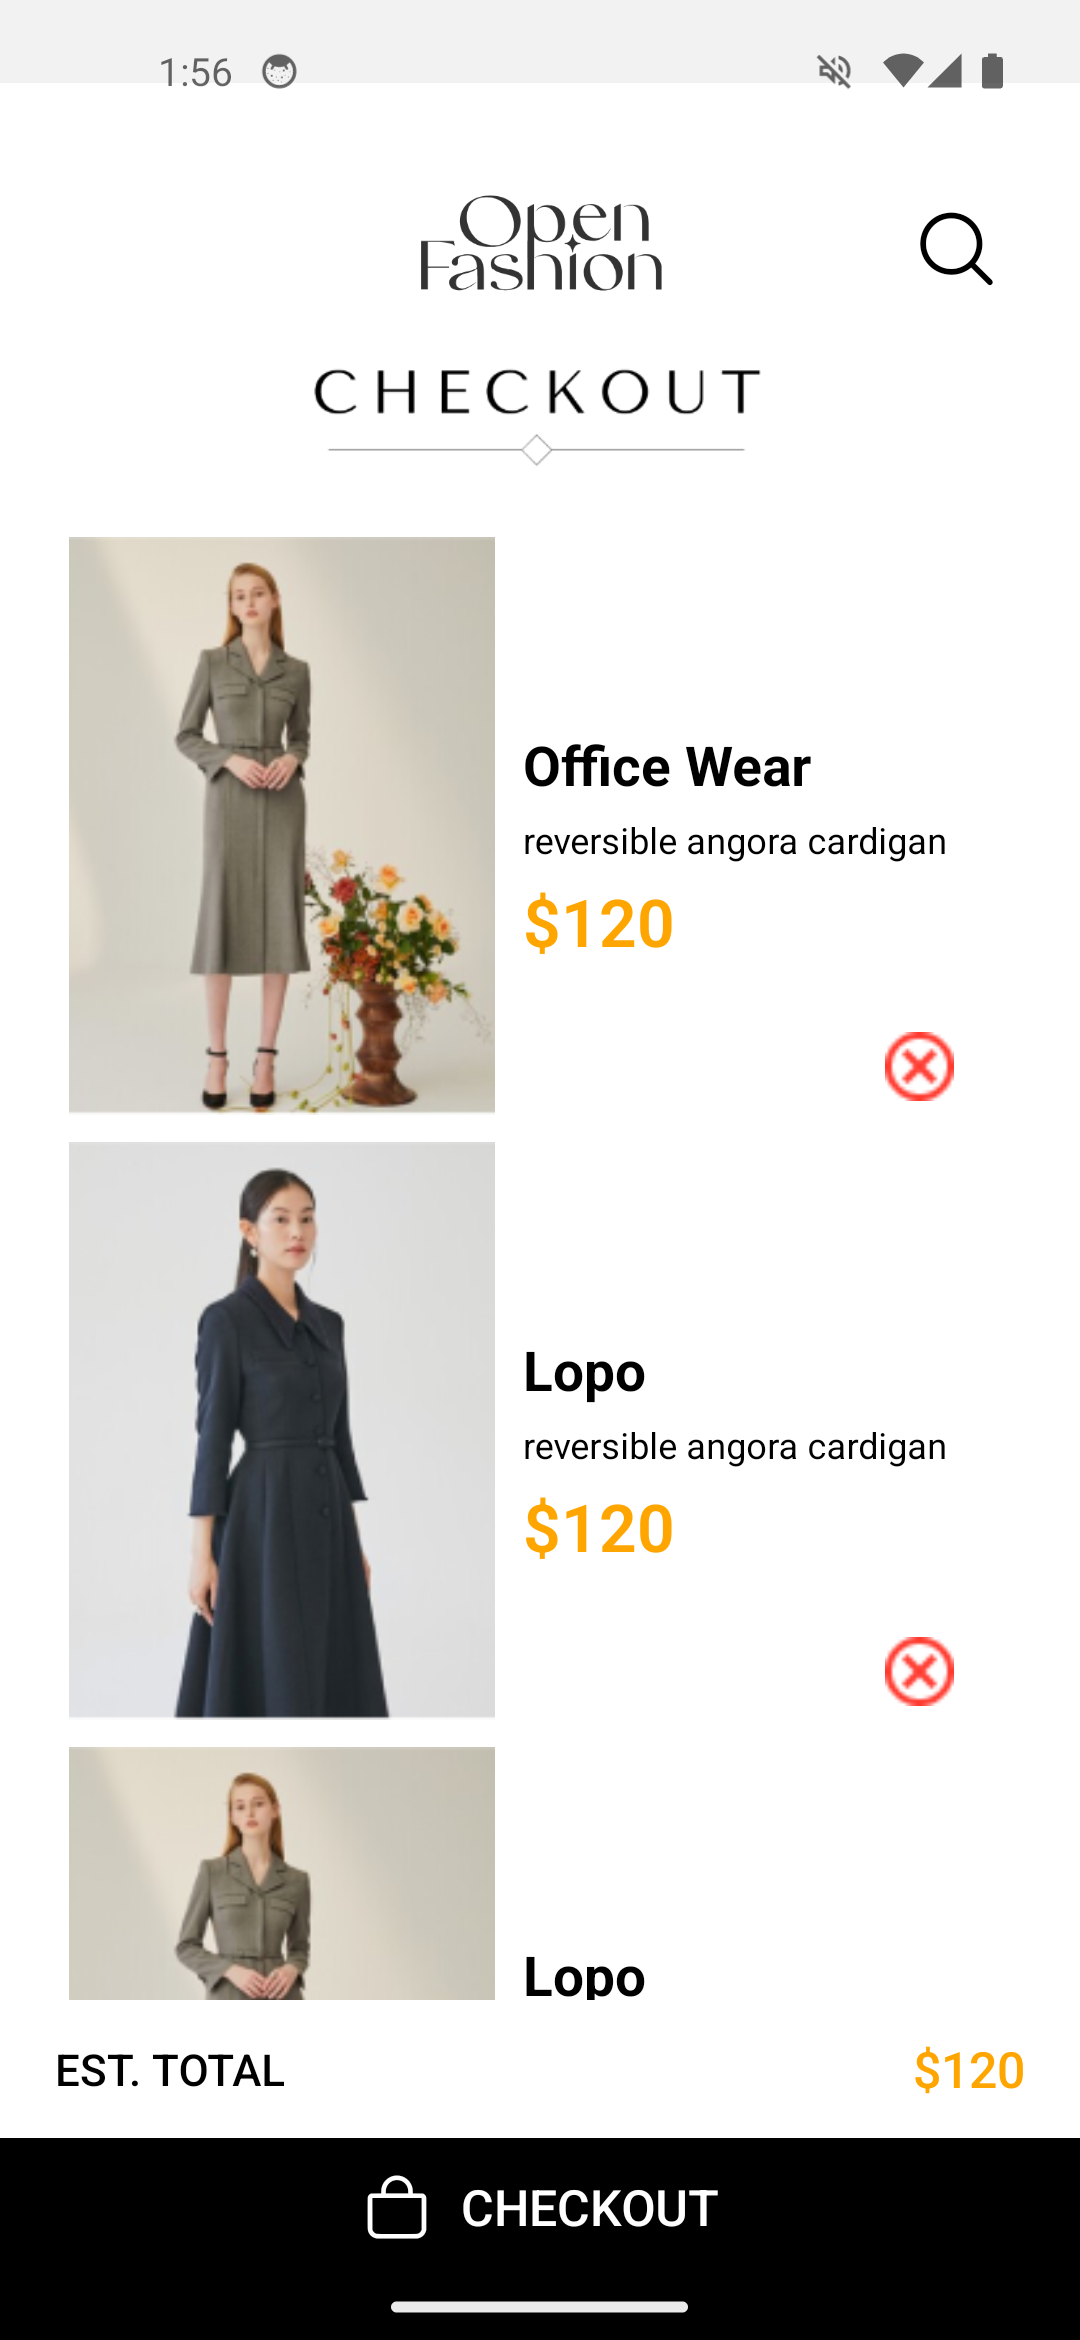
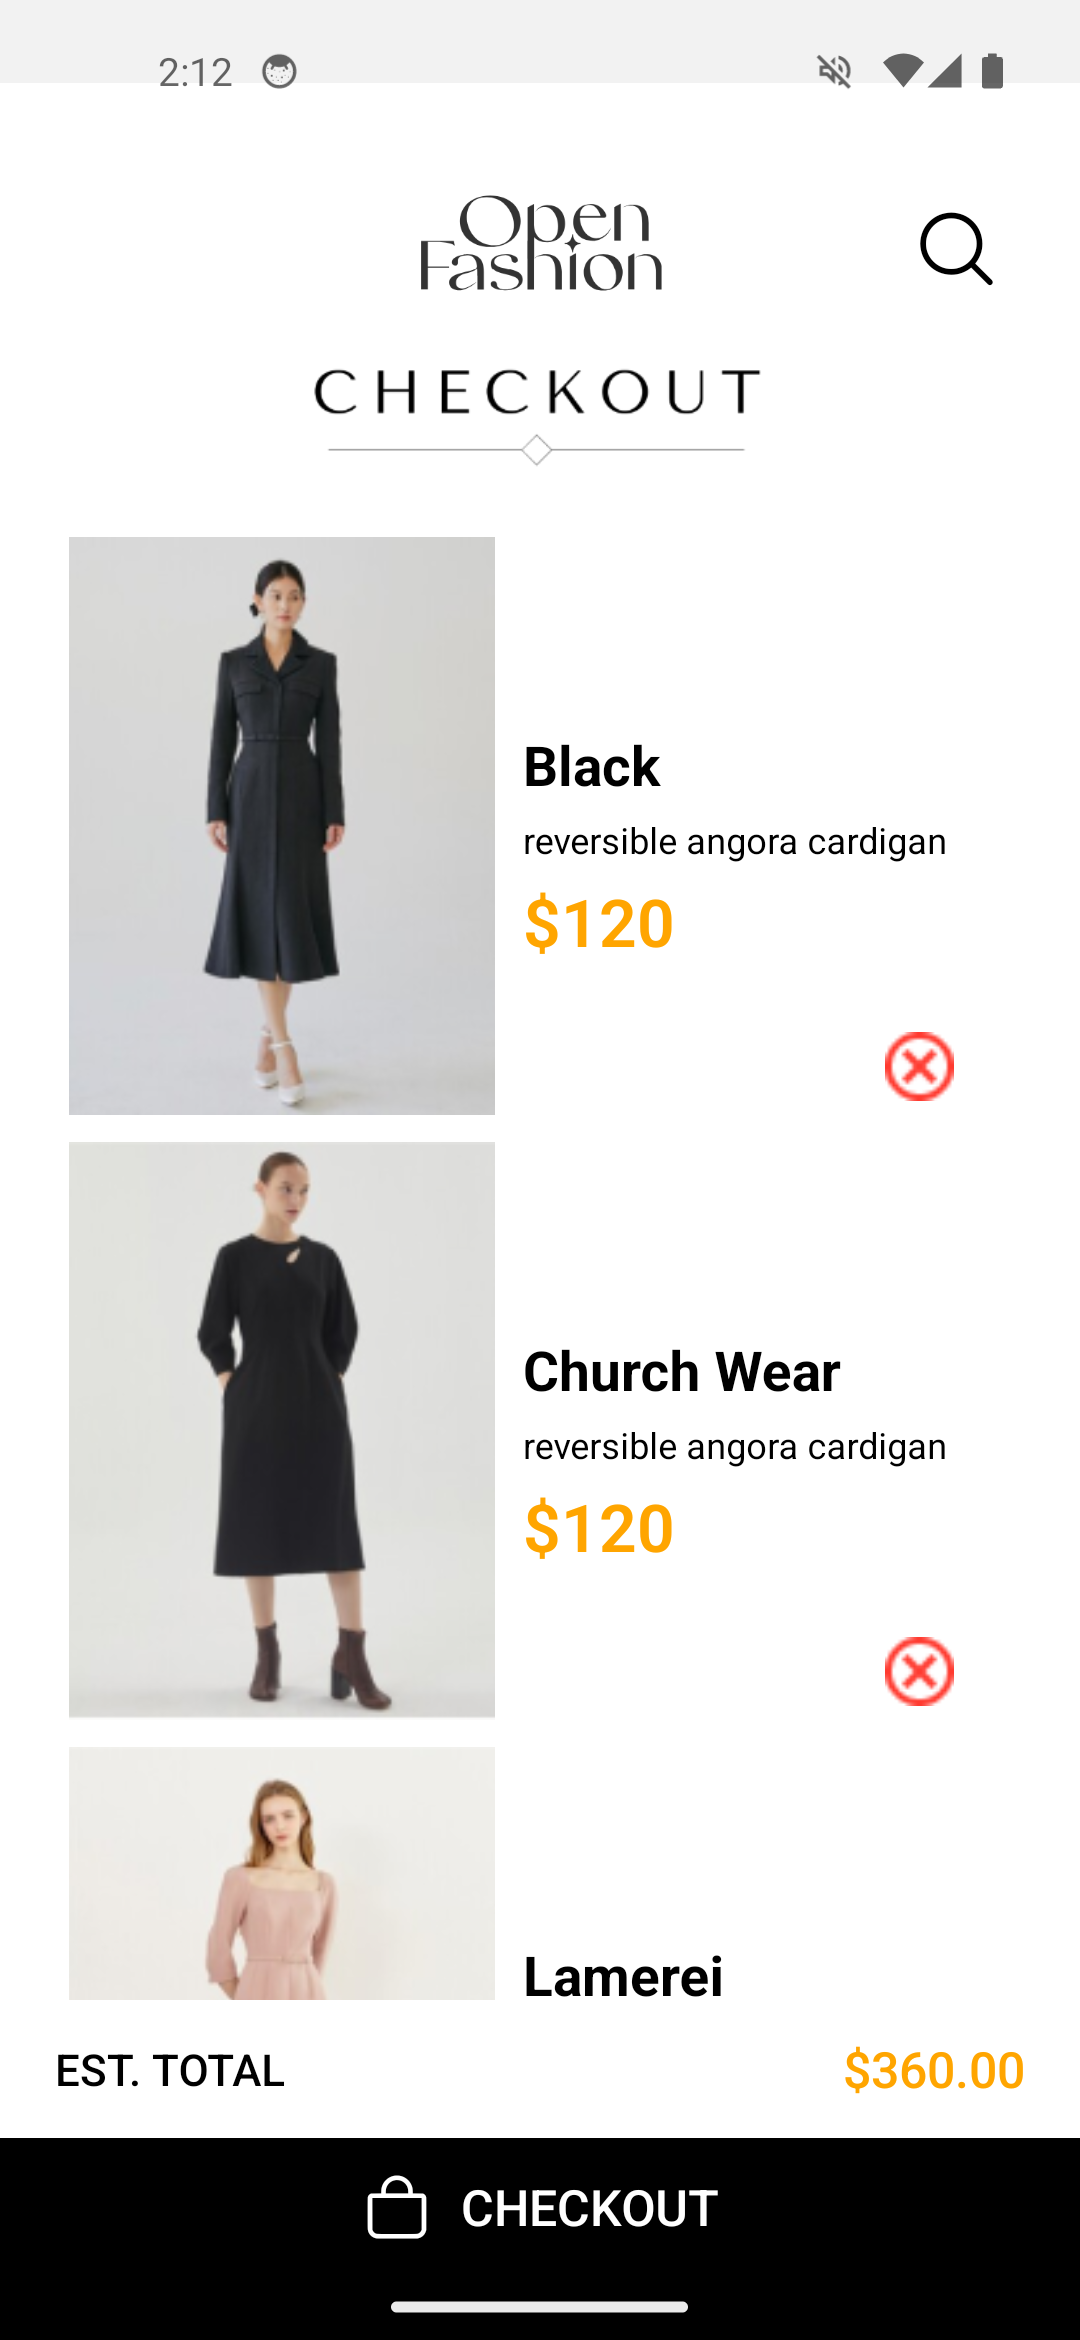
Finishing touches

diff --git a/screens/CartScreen.js b/screens/CartScreen.js
@@ -44,6 +44,15 @@ const Cart = () => {
     }
   };
 
+  const calculateTotal = () => {
+    return cartItems
+      .reduce(
+        (total, item) => total + parseFloat(item.price.replace("$", "")),
+        0
+      )
+      .toFixed(2);
+  };
+
   return (
     <View style={styles.container}>
       <View style={styles.header}>
@@ -82,45 +91,14 @@ const Cart = () => {
         )}
         keyExtractor={(item) => item.id.toString()} // Ensure item.id is string or number
       />
-      <View
-        style={{
-          position: "absolute",
-          bottom: 0,
-          left: 0,
-          right: 0,
-        }}
-      >
-        <View
-          style={{
-            paddingHorizontal: 20,
-            height: 50,
-            alignItems: "center",
-            backgroundColor: "white",
-            flexDirection: "row",
-            justifyContent: "space-between",
-          }}
-        >
-          <Text style={{ fontSize: 16, fontWeight: 500 }}>EST. TOTAL</Text>
-          <Text style={{ fontSize: 18, fontWeight: 500, color: "orange" }}>
-            $120
-          </Text>
+      <View style={styles.totalContainer}>
+        <View style={styles.totalRow}>
+          <Text style={styles.totalText}>EST. TOTAL</Text>
+          <Text style={styles.totalAmount}>${calculateTotal()}</Text>
         </View>
-        <TouchableOpacity
-          style={{
-            flexDirection: "row",
-            alignItems: "center",
-            justifyContent: "center",
-            height: 50,
-            gap: 10,
-            backgroundColor: "black",
-            right: 0,
-            left: 0,
-          }}
-        >
+        <TouchableOpacity style={styles.checkoutButton}>
           <Ionicons name="bag-outline" size={26} color="white" />
-          <Text style={{ fontSize: 18, fontWeight: "500", color: "white" }}>
-            CHECKOUT
-          </Text>
+          <Text style={styles.checkoutButtonText}>CHECKOUT</Text>
         </TouchableOpacity>
       </View>
     </View>
@@ -161,6 +139,42 @@ const styles = StyleSheet.create({
   checkoutImage: {
     width: 180,
     height: 50,
+  },
+  totalContainer: {
+    position: "absolute",
+    bottom: 0,
+    left: 0,
+    right: 0,
+  },
+  totalRow: {
+    paddingHorizontal: 20,
+    height: 50,
+    alignItems: "center",
+    backgroundColor: "white",
+    flexDirection: "row",
+    justifyContent: "space-between",
+  },
+  totalText: {
+    fontSize: 16,
+    fontWeight: "500",
+  },
+  totalAmount: {
+    fontSize: 18,
+    fontWeight: "500",
+    color: "orange",
+  },
+  checkoutButton: {
+    flexDirection: "row",
+    alignItems: "center",
+    justifyContent: "center",
+    height: 50,
+    backgroundColor: "black",
+  },
+  checkoutButtonText: {
+    fontSize: 18,
+    fontWeight: "500",
+    color: "white",
+    marginLeft: 10,
   },
 });
 
